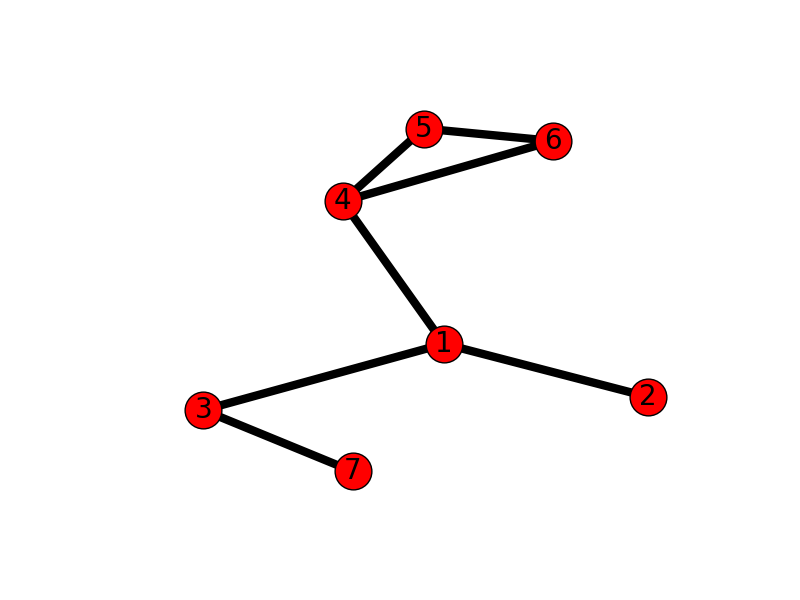
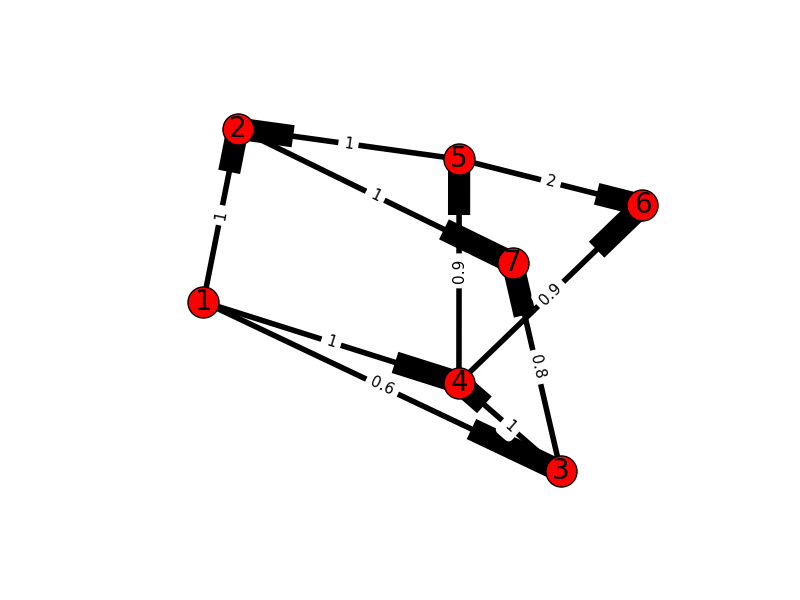
Creating directed weighted graph

diff --git a/Dijistra.py b/Dijistra.py
@@ -4,6 +4,34 @@ import networkx as nx
 import numpy as np
 import matplotlib.pyplot as plt
 
+###Creating directed weighted graph
+
+G = nx.DiGraph()
+G.add_edge(1,3,weight=0.6)
+G.add_edge(1,4,weight=1)
+G.add_edge(5,6,weight=2)
+G.add_edge(1,2,weight=1)
+G.add_edge(4,5,weight=0.9)
+G.add_edge(3,7,weight=0.8)
+G.add_edge(4,6,weight=0.9)
+G.add_edge(5,2,weight=1)
+G.add_edge(3,4,weight=1)
+G.add_edge(2,7,weight=1)
+
+pos = nx.spring_layout(G) #Position for all nodes
+
+nx.draw_networkx_nodes(G,pos,node_size=500)
+nx.draw_networkx_edges(G,pos,width=4)
+labels = nx.get_edge_attributes(G,'weight')
+nx.draw_networkx_edge_labels(G,pos,edge_labels=labels,font_color='k',alpha=0,label_pos=0.5,font_size=11)
+nx.draw_networkx_labels(G,pos,font_size=20,font_family='sans-serif')
+plt.axis('off')
+plt.savefig("weighted_graph.png") # save as png
+plt.show()
+
+
+###Creating undirected weighted graph
+'''
 G = nx.Graph()
 G.add_edge(1,3,weight=0.6)
 G.add_edge(1,4,weight=1)
@@ -15,23 +43,12 @@ G.add_edge(4,6,weight=0.9)
 
 pos = nx.spring_layout(G) #Position for all nodes
 
-nx.draw_networkx_nodes(G,pos,node_size=700)
-nx.draw_networkx(G)
-nx.draw_networkx_edges(G,pos,width=6)
+nx.draw_networkx_nodes(G,pos,node_size=500)
+nx.draw_networkx_edges(G,pos,width=4)
+labels = nx.get_edge_attributes(G,'weight')
+nx.draw_networkx_edge_labels(G,pos,edge_labels=labels,font_color='k',alpha=0,label_pos=0.5,font_size=11)
 nx.draw_networkx_labels(G,pos,font_size=20,font_family='sans-serif')
 plt.axis('off')
 plt.savefig("weighted_graph.png") # save as png
 plt.show()
-
-#degree_sequence = list(G.degree().values())
-#print('Degree Sequence:', degree_sequence)
-#nodes = list(G.nodes())
-#print('Nodes:', nodes)
-#K = []
-#for i in nodes:
-#    if G.degree(i) > 1:
-#        K.append(i)
-#print('K:',K)
-#S=G.subgraph(K)
-#nx.draw_networkx(S)
-
+'''
